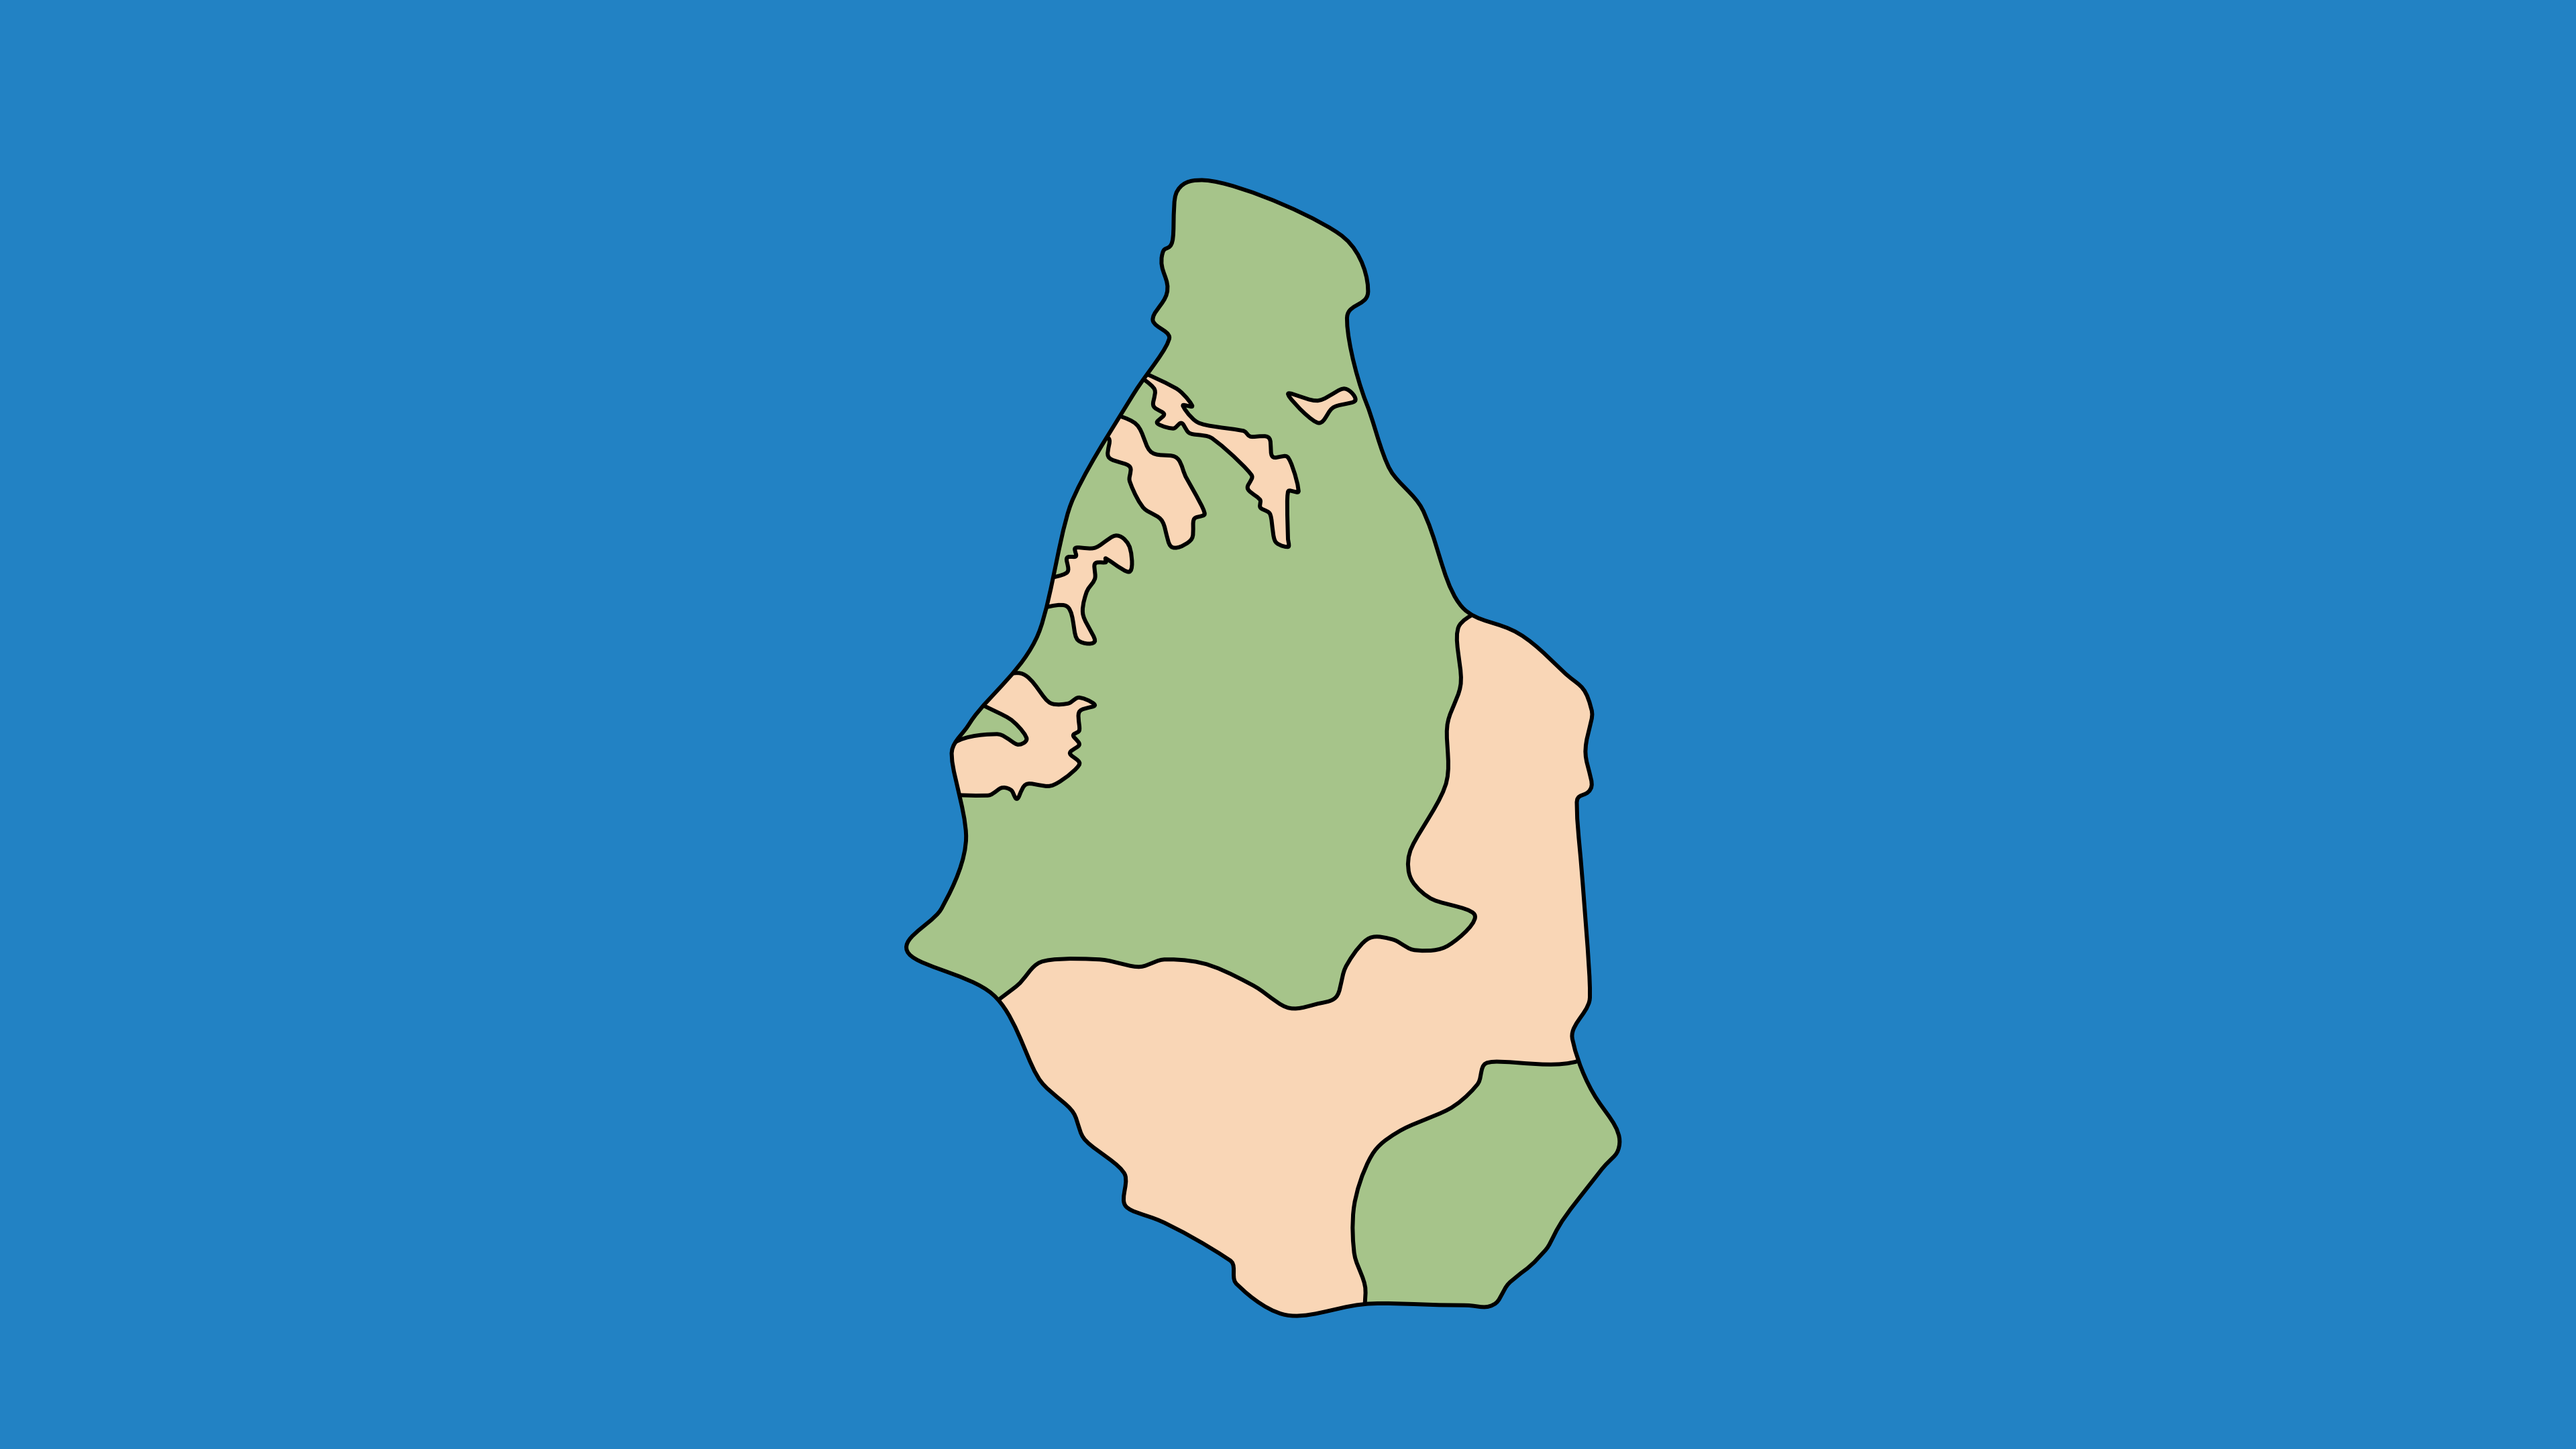
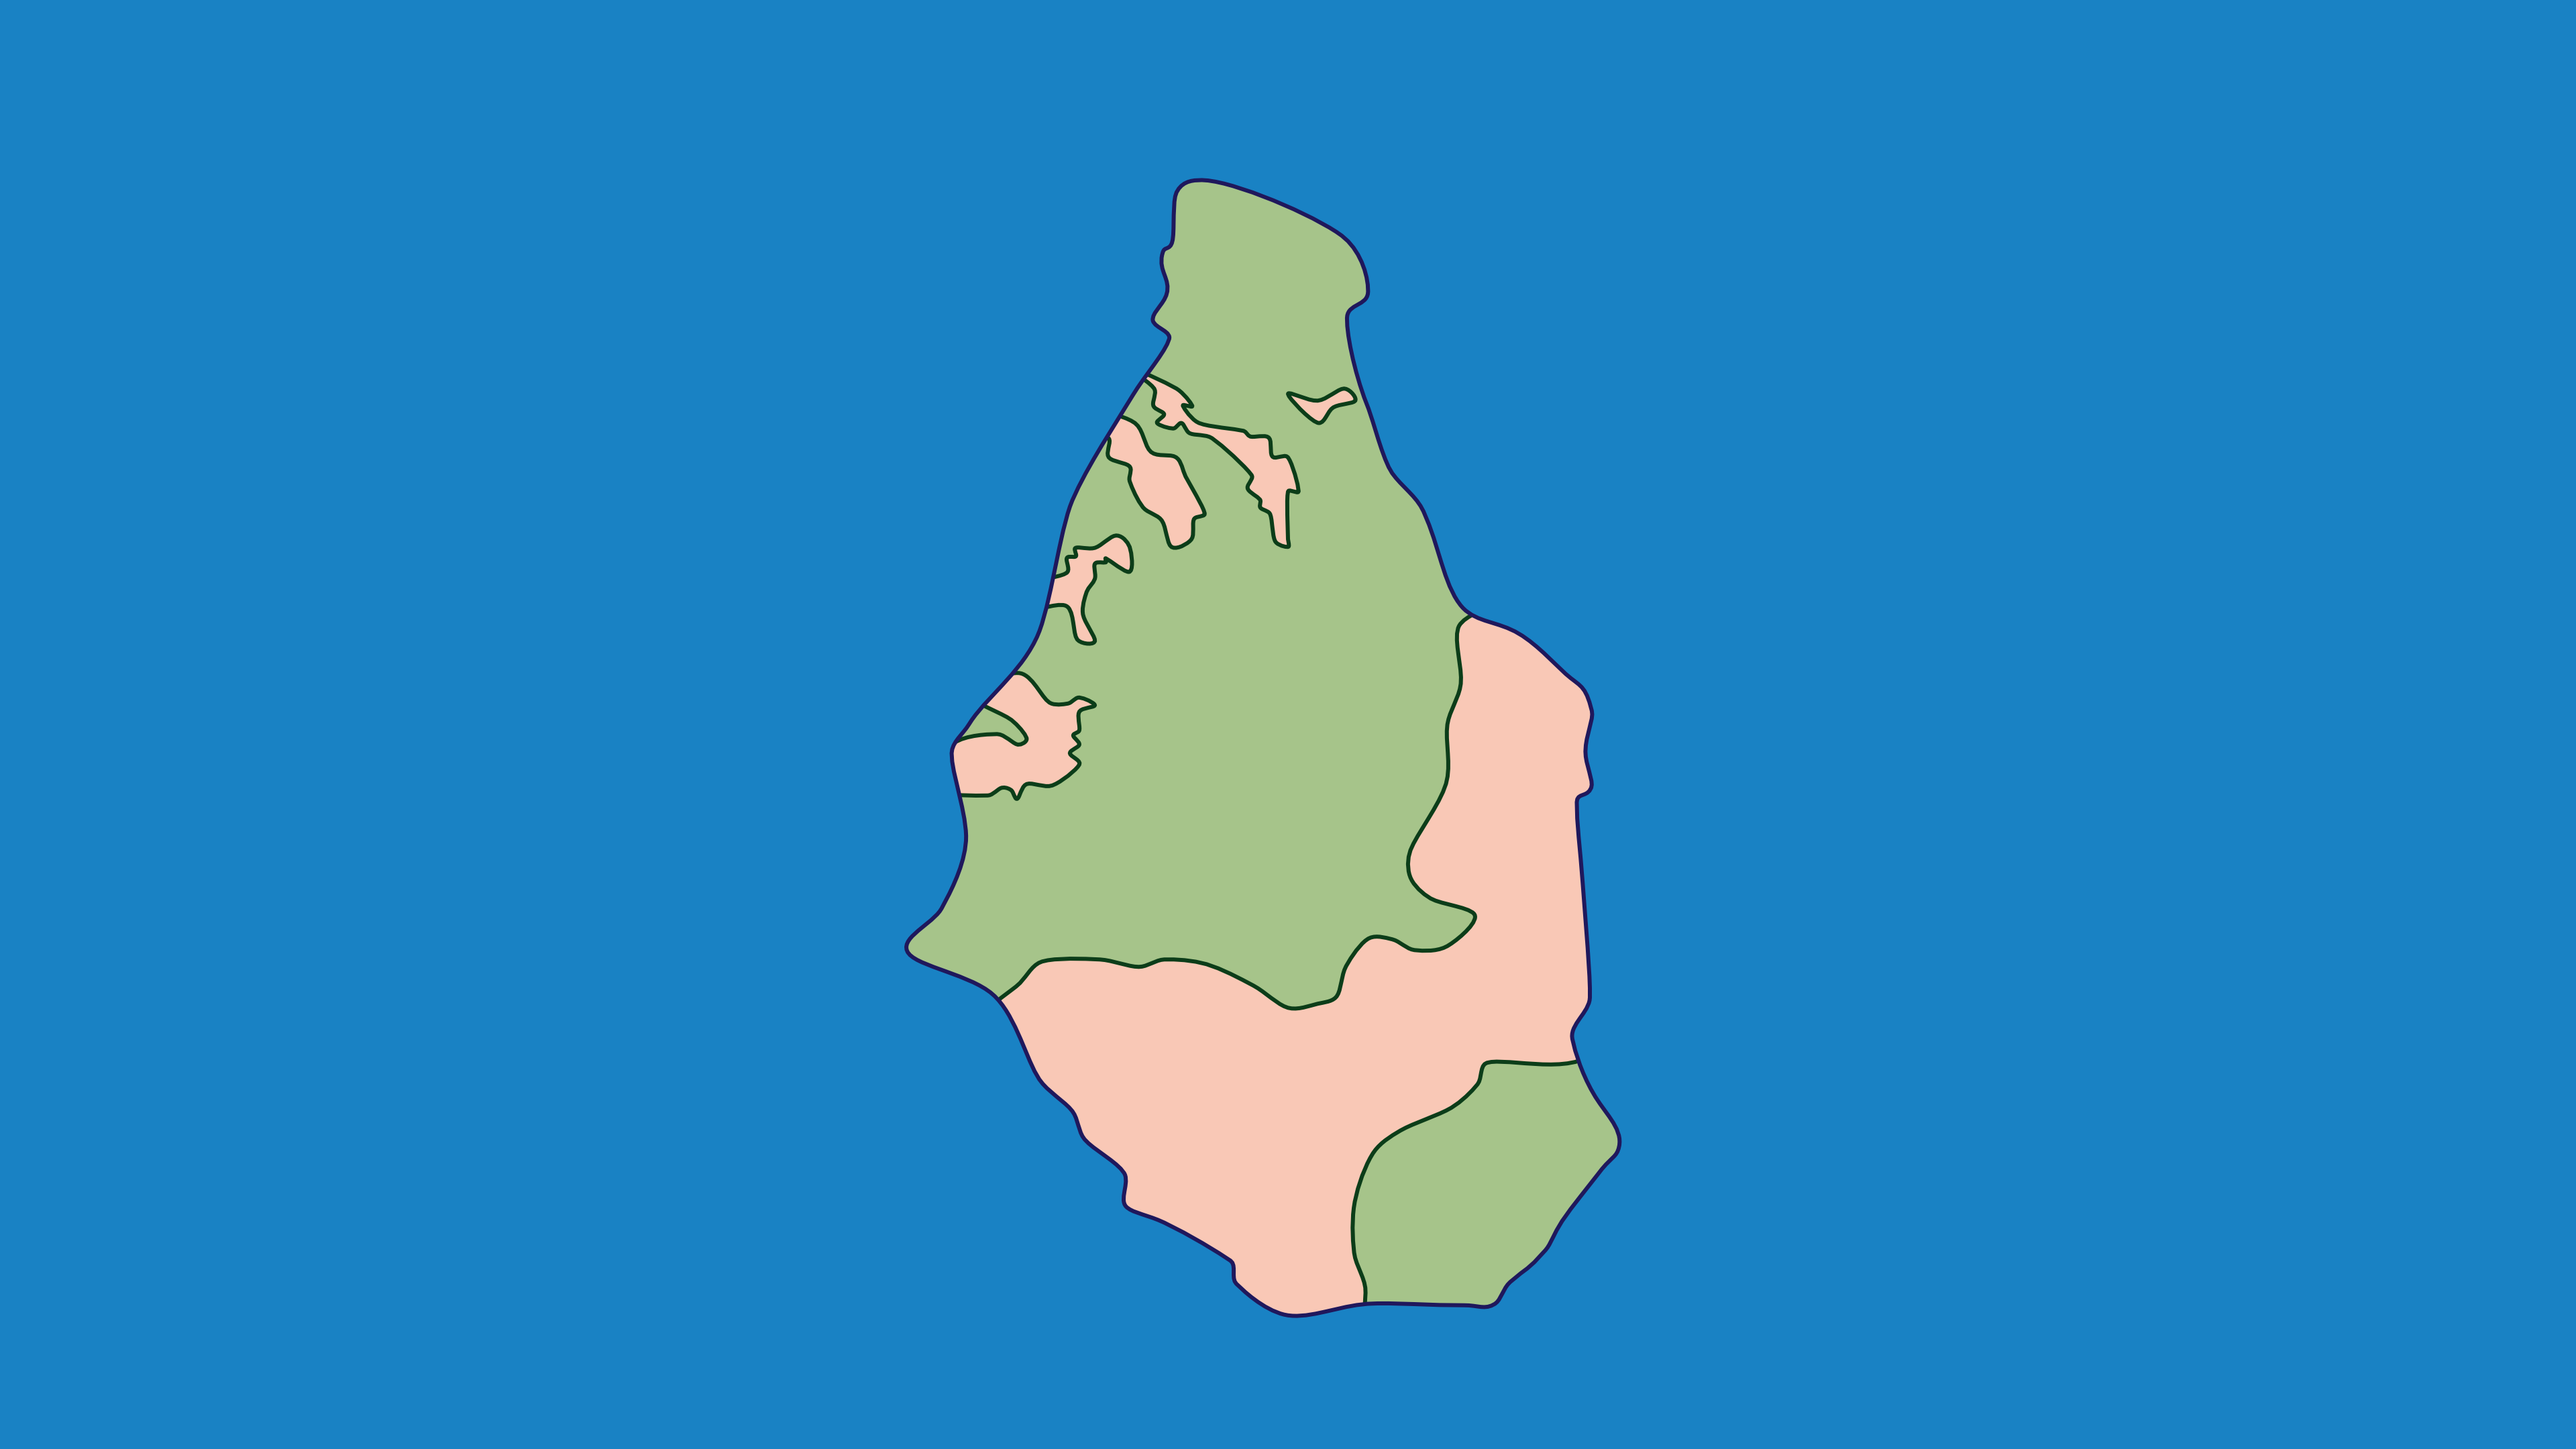
Montserrat image and colour updates

diff --git a/src/objects/MetroMap.java b/src/objects/MetroMap.java
@@ -96,7 +96,7 @@ public class MetroMap {
                 this.colours = new Color[]{
                         // lines
                         Color.decode("#FF595E"),
-                        Color.decode("#FFCA3A"),
+                        Color.decode("#FFA83A"),
                         Color.decode("#6A4C93"),
                         Color.decode("#F7977A"),
                         Color.decode("#CD7AF7"),
@@ -104,10 +104,10 @@ public class MetroMap {
                         Color.decode("#8CBFF3"),
                         // map
                         Color.decode("#A6C48A"),
-                        Color.decode("#F9D6B6"),
-                        Color.decode("#000000"),
+                        Color.decode("#F9C8B6"),
+                        Color.decode("#0C3D19"),
                         Color.decode("#1982C4"),
-                        Color.decode("#000000"),
+                        Color.decode("#1F185C"),
                         // locked line
                         Colour.GREY_40
                 };
